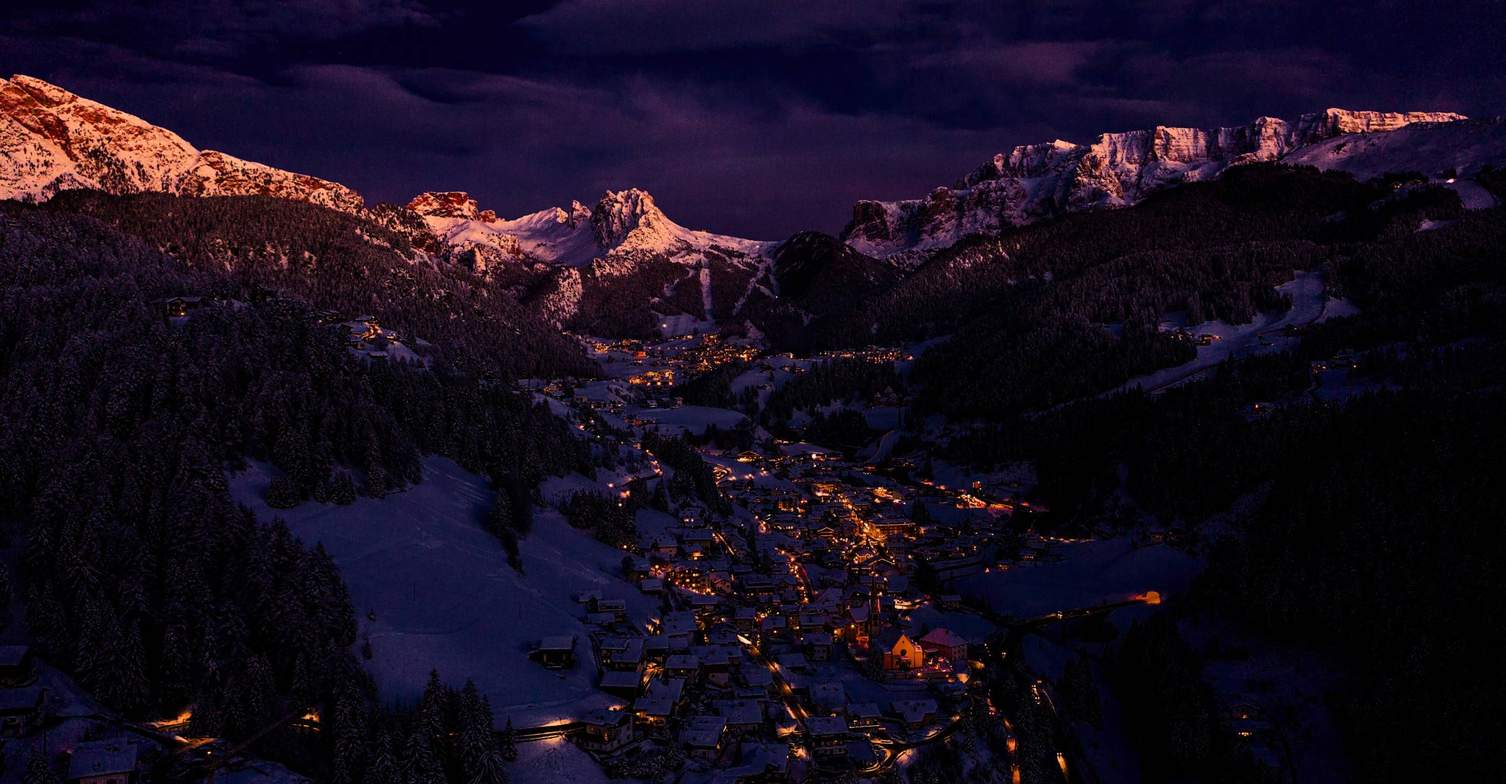
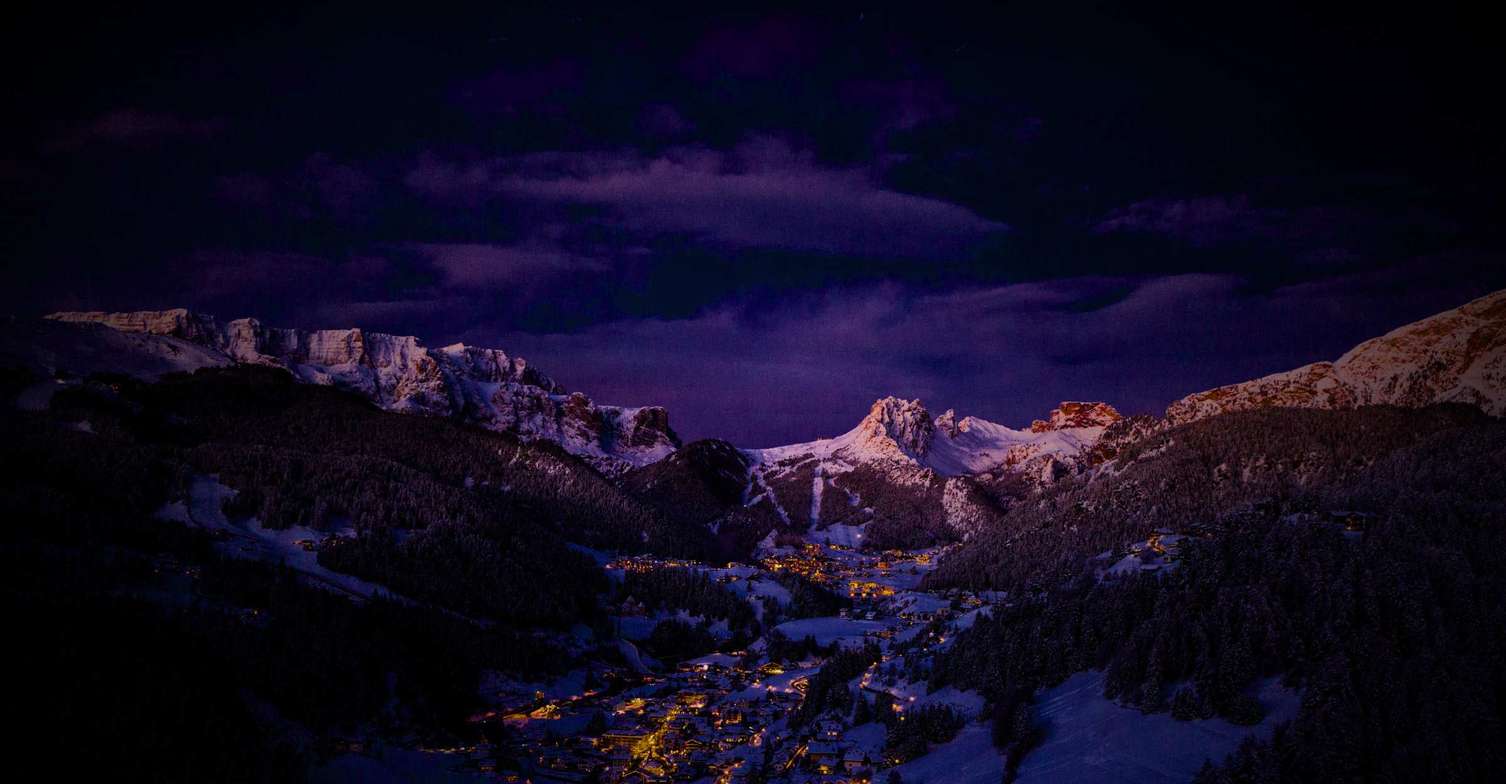
home

diff --git a/index.html b/index.html
@@ -60,7 +60,7 @@
       <main class="main">
          <!--==================== HOME ====================-->
          <section class="home section" id="home">
-            <img src="assets/img/home-background (3).jpg" alt="home image" class="home__bg">
+            <img src="assets/img/home-background.jpg" alt="home image" class="home__bg">
             <div class="home__shadow"></div>
 
             <div class="home__container container grid">

diff --git a/assets/css/styles.css b/assets/css/styles.css
@@ -141,7 +141,7 @@ img {
 }
 
 .nav__logo{
-  width: 200px;
+  width: 160px;
 }
 
 .nav__toggle,
